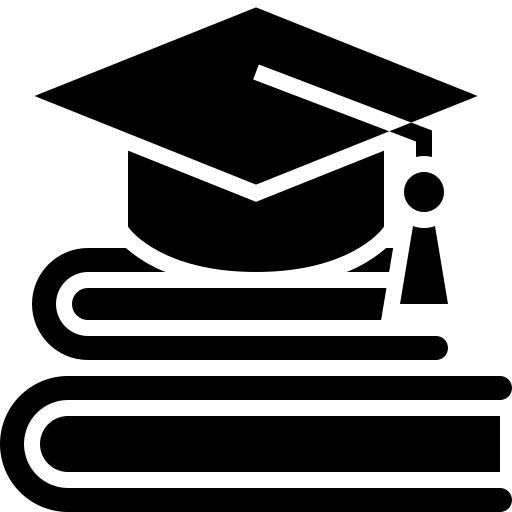
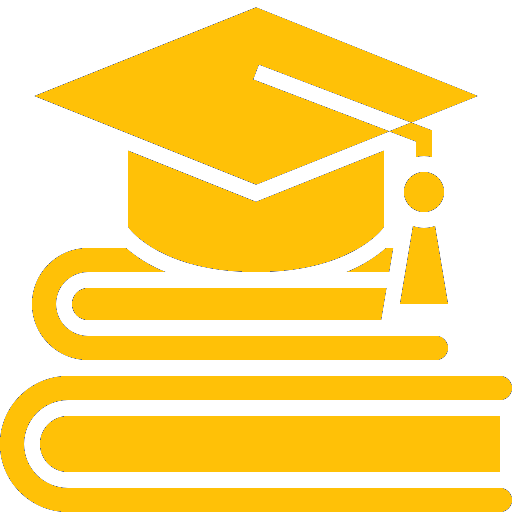
changed theme to dark and about section updates

diff --git a/style.css b/style.css
@@ -8,6 +8,7 @@
 }
 
 body {
+  background-color: #171717;
   font-family: "Poppins", sans-serif;
 }
 
@@ -16,7 +17,11 @@ html {
 }
 
 p {
-  color: rgb(85, 85, 85);
+  color: #DADADA;
+}
+
+h1, h2, h3, h4, h5, h6 {
+  color: #FFFFFF;
 }
 
 /* BUTTONS  TRANSITION */
@@ -33,20 +38,46 @@ nav,
   display: flex;
 }
 
+.nav-links {
+  gap: 0.5rem;
+}
+
+.nav-links li {
+  list-style: none;
+  padding: 0 1rem;
+}
+
 nav {
   justify-content: space-around;
   align-items: center;
   height: 17vh;
 }
 
-.nav-links {
+.nav-links a{
+  color: #FFC107;
   gap: 2rem;
   list-style: none;
   font-size: 1.5rem;
+  position: relative;
+}
+
+.nav-links a:hover::after {
+  width: 100%;
+}
+
+.nav-links a::after {
+  content: "";
+  position: absolute;
+  bottom: -0.2rem;
+  left: 0;
+  width: 0%;
+  height: 2px;
+  background-color: rgb(181, 181, 181);
+  transition: width 0.3s ease-in-out;
 }
 
 a {
-  color: rgb(0, 0, 0);
+  color: #FFC107;
   text-decoration: none;
   position: relative;
 }
@@ -72,6 +103,7 @@ a:hover {
 
 
 .logo {
+  color:rgb(86, 86, 86);
   font-size: 2rem;
 }
 
@@ -180,6 +212,7 @@ section {
   display: flex;
 }
 
+
 /* PROFILE SECTION STYLING */
 
 #profile {
@@ -187,7 +220,6 @@ section {
   justify-content: center;
   gap: 5rem;
   height: 80vh;
-  
 }
 
 .section__pic-container {
@@ -302,11 +334,14 @@ section {
 
 
 /* ABOUT SECTION STYLING */
-
-
-
 #about {
   position: relative;
+}
+
+#about h2 {
+  font-size: 2.5rem;
+  margin-bottom: 30px;
+  color: rgb(86, 86, 86);
 }
 
 .about-containers {
@@ -431,10 +466,9 @@ section {
   margin-bottom: 10px;
   width: auto; /* Allow the button to expand based on content */
   min-width: 120px; /* Set a minimum width for the button */
-  color: #000000;
+  color: #ffffff;
   border: none;
-  border-radius: 2rem;
-  background-color: #ffffff;
+  background-color: #171717;
   cursor: pointer;
   text-align: center;
   transition: background-color 0.3s ease, transform 0.2s ease;
@@ -460,8 +494,6 @@ section {
   left: 0;
   width: 0; /* Initially, the line is not visible */
   height: 2px; /* Height of the underline */
-  background-color: #5C0092; /* Blue color for the underline */
-  transition: width 0.4s ease-out; /* Smooth transition for the line's width */
 }
 
 .project-btn:hover::after {
@@ -472,14 +504,11 @@ section {
 .projects-details {
   flex: 3;
   min-width: 250px;
-  background-color: #fff;
+  background-color: #272727;
   border-radius: 5px;
   box-shadow: 0 0 10px rgba(0, 0, 0, 0.1);
   padding: 20px;
   border-radius: 30px;
-  background: #ffff;
-  box-shadow: 15px 15px 30px #bebebe,
-             -15px -15px 30px #ffffff;
 }
 
 .project-content {
@@ -521,13 +550,13 @@ section {
 .project-text h3 {
   font-size: 1.8rem;
   margin-bottom: 10px;
-  color: #333;
+  color: #ffffff;
 }
 
 .project-text p {
   font-size: 1rem;
   line-height: 1.4;
-  color: #555;
+  color: #ffffff;
 }
 
 /* Ensure responsive layout */
@@ -559,7 +588,7 @@ section {
 #education h2 {
   font-size: 2.5rem;
   margin-bottom: 30px;
-  color: #333;
+  color: rgb(86, 86, 86);
 }
 
 /* Timeline Container */
@@ -677,14 +706,18 @@ section {
   padding: 0.5rem;
 }
 
-.contact-info-container {
-  word-wrap: break-word;
-  overflow-wrap: break-word;
-  display: flex;
-  align-items: center;
-  justify-content: center;
-  gap: 0.5rem;
-  margin: 0.5rem;
+.contact-info-container a {
+  color: #333;
+  text-decoration: none;
+  position: static;
+}
+
+.contact-info-container a:hover {
+  color: #333;
+}
+
+.contact-info-container a::after {
+  display: none;
 }
 
 .contact-info-container p {

diff --git a/index.html b/index.html
@@ -94,8 +94,10 @@
       </div>
     </section>
     <section id="about">
-      <p class="section__text__p1">Get To Know More</p>
-      <h1 class="title">About Me</h1>
+      <div class="section-header">
+        <img src="./assets/about-icon.png" alt="About icon downloaded from flaticon.com" class="decorative-icon">
+        <h2>About</h2>
+      </div>
       <div class="section-container">
         <div class="section__pic-container">
           <img
@@ -114,31 +116,44 @@
               impactful ways. My goal is to excel in the digital landscape, tackle challenging problems, and contribute 
               meaningfully to the tech industry.
             </p>
+
+            <!-- Languages -->
             <div class="skills-container">
-              <p class="skills-title">> Skills:</p>
+              <p class="skills-title">> Languages:</p>
               <div class="skill">
                 <img src="./assets/java-icon.png" alt="Java Icon" class="skill-icon">
-                <!-- <p class="skill-name">Java</p> -->
+              </div>
+              <div class="skill">
+                <img src="./assets/javascript.svg" alt="JavaScript Icon" class="skill-icon">
+              </div>
+              <div class="skill">
+                <img src="./assets/python-icon.webp" alt="Python Icon" class="skill-icon">
               </div>
               <div class="skill">
                 <img src="./assets/c-icon.webp" alt="C Icon" class="skill-icon">
-                <!-- <p class="skill-name">C</p> -->
               </div>
-              <div class="skill">
-                <img src="./assets/assembly-icon.svg" alt="Assembly Icon" class="skill-icon">
-                <!-- <p class="skill-name">MIPS Assembly</p> -->
-              </div>
-              <div class="skill">
+                <div class="skill">
                 <img src="./assets/html-icon.png" alt="HTML Icon" class="skill-icon">
-                <!-- <p class="skill-name">HTML</p> -->
               </div>
               <div class="skill">
                 <img src="./assets/css-icon.png" alt="CSS Icon" class="skill-icon">
-                <!-- <p class="skill-name">CSS</p> -->
               </div>
               <div class="skill">
-                <img src="./assets/github.png" alt="GitHub Icon" class="skill-icon">
-                <!-- <p class="skill-name">GitHub</p> -->
+                <img src="./assets/mysql-logo.png" alt="MySQL Icon" class="skill-icon">
+              </div>
+            </div>
+
+            <!-- Tools & Frameworks -->
+            <div class="skills-container">
+              <p class="skills-title">> Developer Tools & Frameworks:</p>
+              <div class="skill">
+                <img src="./assets/springboot-logo.png" alt="Spring Boot Icon" class="skill-icon">
+              </div>
+              <div class="skill">
+                <img src="./assets/postman-logo.png" alt="Postman API Icon" class="skill-icon">
+              </div>
+              <div class="skill">
+                <img src="./assets/github-icon-2.svg" alt="Python Icon" class="skill-icon">
               </div>
             </div>
           </div>
